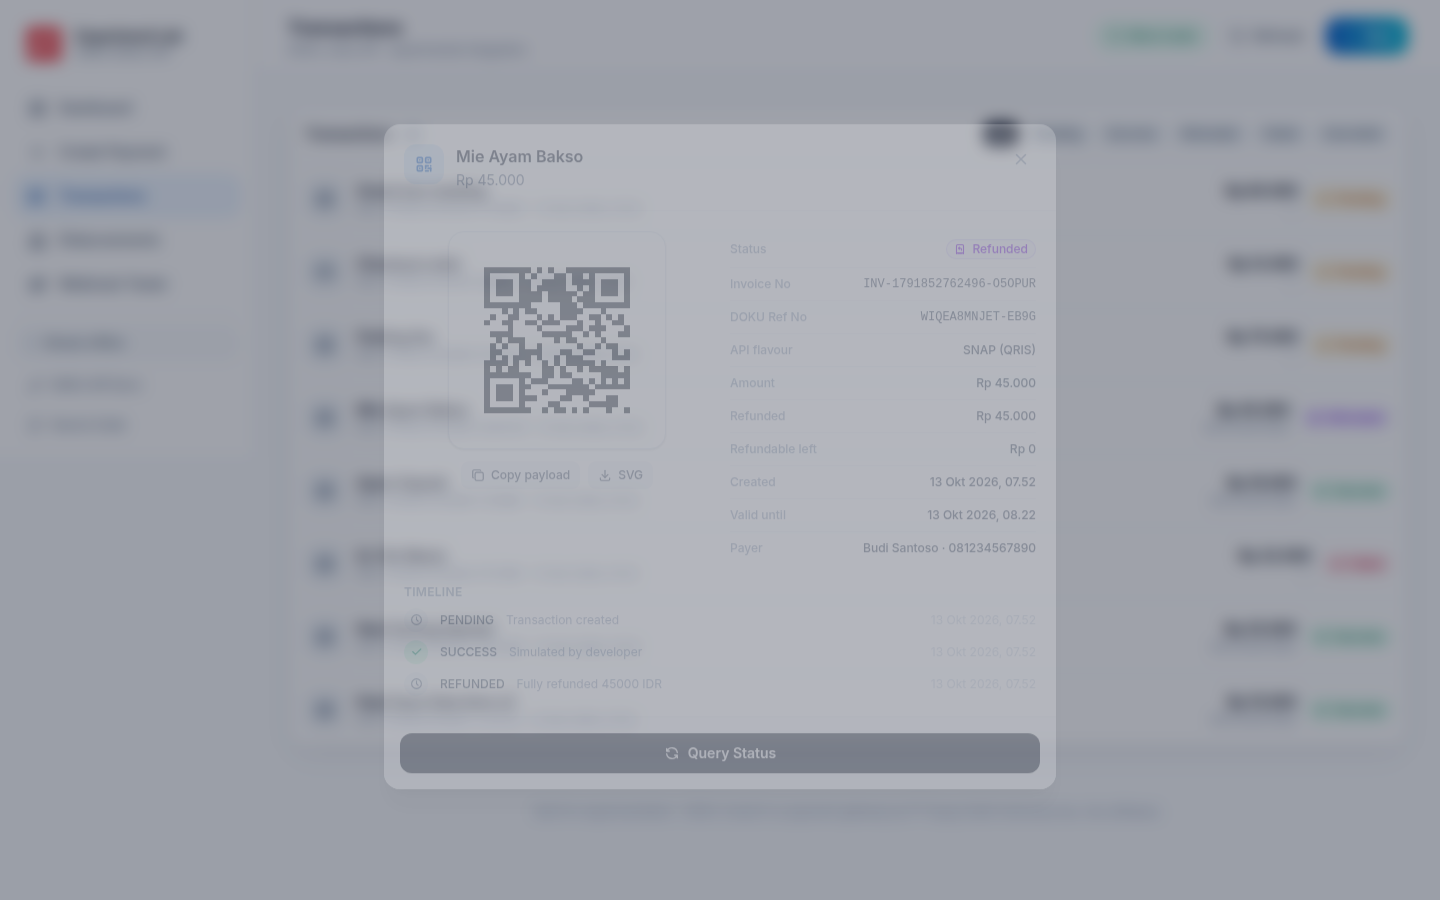
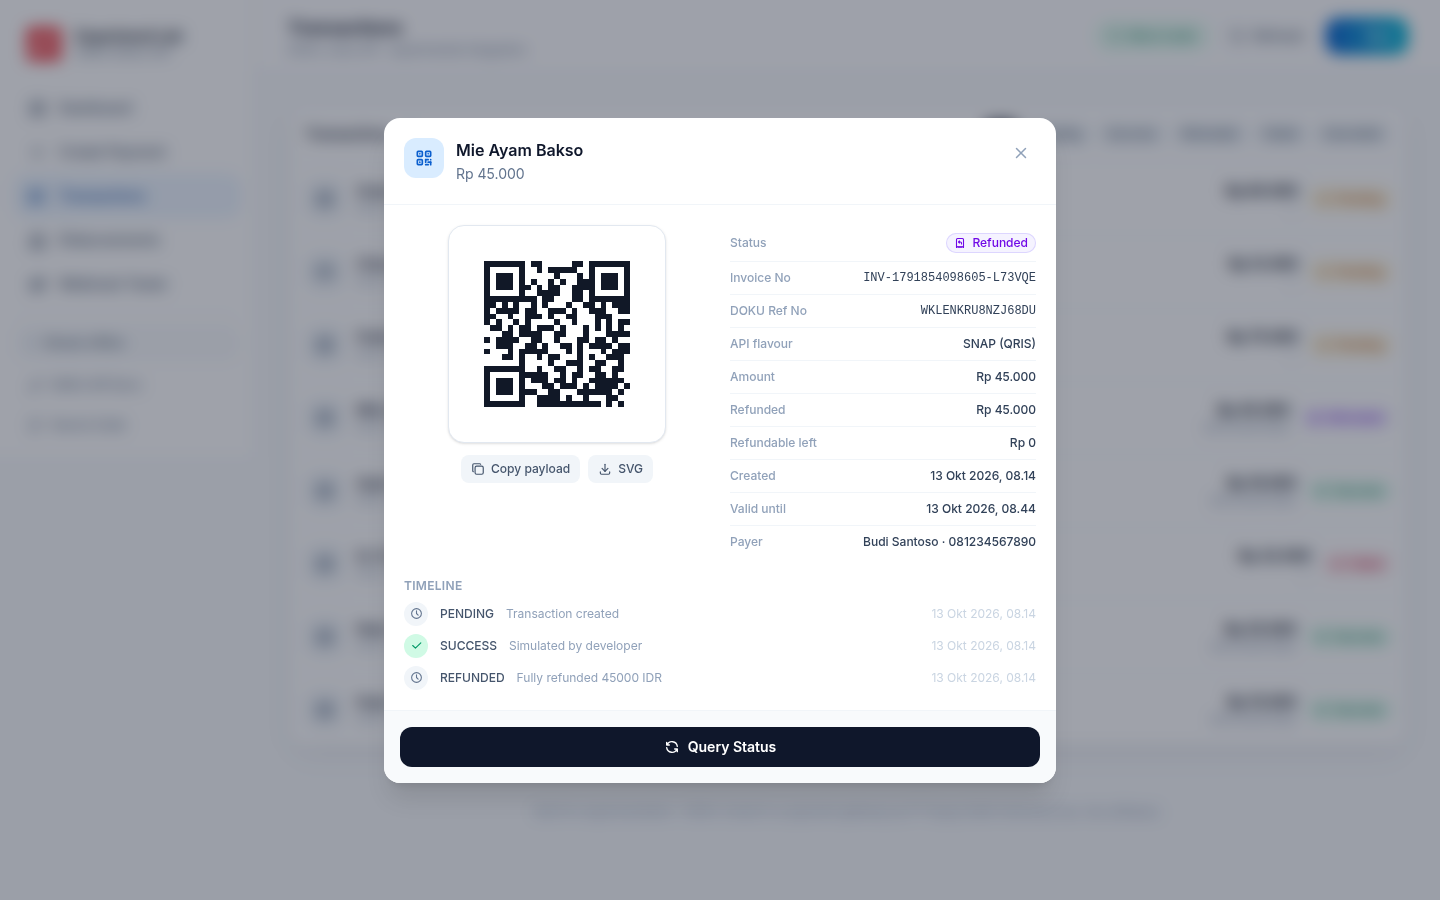
fix(frontend): stop modal backdrop dimming dialog + QR
The PaymentDetailModal's backdrop (bg-slate-900/40 backdrop-blur-sm) was
compositing over the dialog, dimming the whole modal — including the QRIS
QR — so it rendered washed-out (darkest pixel lum ~123 vs expected ~22).

- give the backdrop an explicit z-0 and the dialog z-10 so the dialog always
  paints above the blurred overlay regardless of backdrop-filter stacking
- re-captured payment-detail.png; QR now renders at full contrast

diff --git a/frontend/src/components/Modal.jsx b/frontend/src/components/Modal.jsx
@@ -20,14 +20,14 @@ export default function Modal({ open, onClose, title, subtitle, icon: Icon, chil
   return (
     <div className="fixed inset-0 z-40 flex items-end justify-center p-0 sm:items-center sm:p-4">
       <div
-        className="absolute inset-0 bg-slate-900/40 backdrop-blur-sm"
+        className="absolute inset-0 z-0 bg-slate-900/40 backdrop-blur-sm"
         onClick={onClose}
         aria-hidden
       />
       <div
         role="dialog"
         aria-modal="true"
-        className={`animate-fade-in-up relative w-full ${widths[size]} overflow-hidden rounded-t-2xl bg-white shadow-xl sm:rounded-2xl`}
+        className={`animate-fade-in-up relative z-10 w-full ${widths[size]} overflow-hidden rounded-t-2xl bg-white shadow-xl sm:rounded-2xl`}
       >
         <div className="flex items-start gap-3 border-b border-slate-100 p-5">
           {Icon && (
